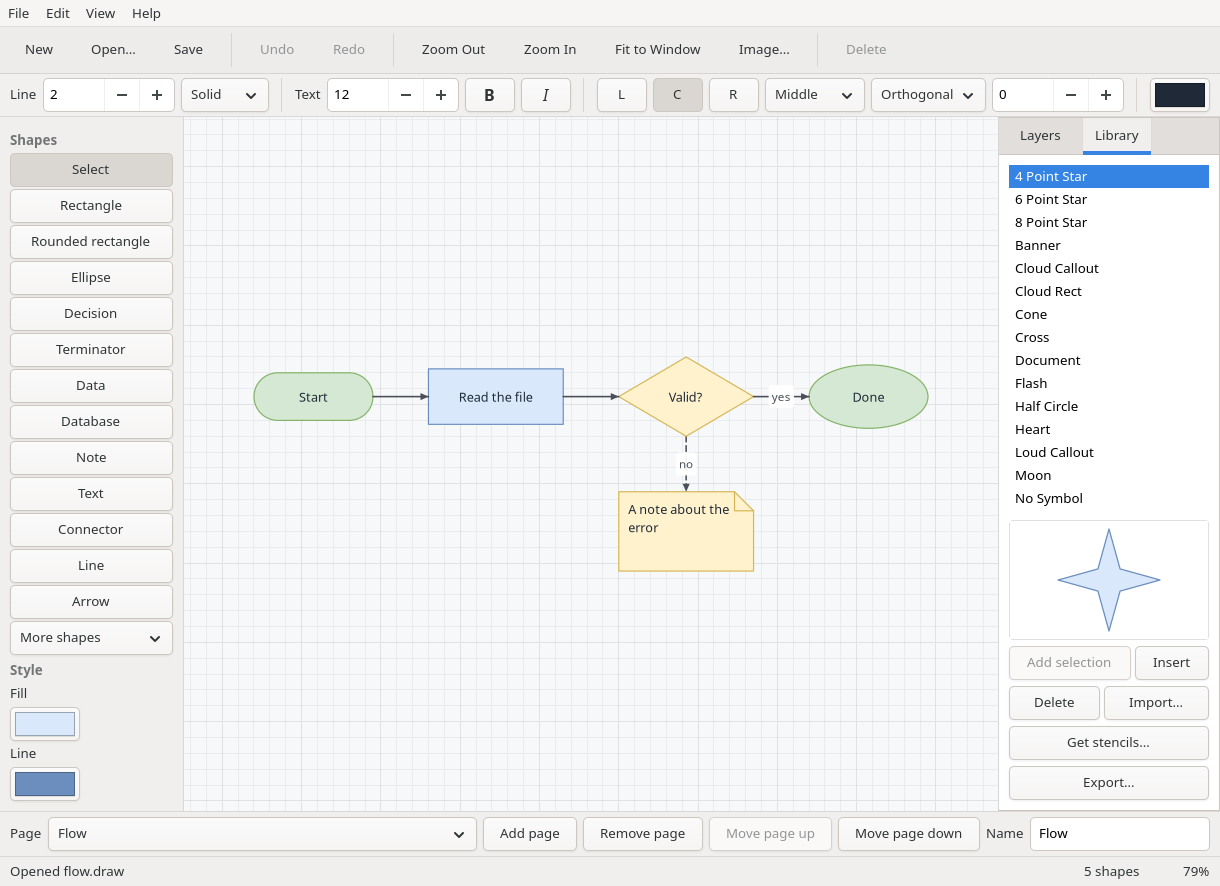
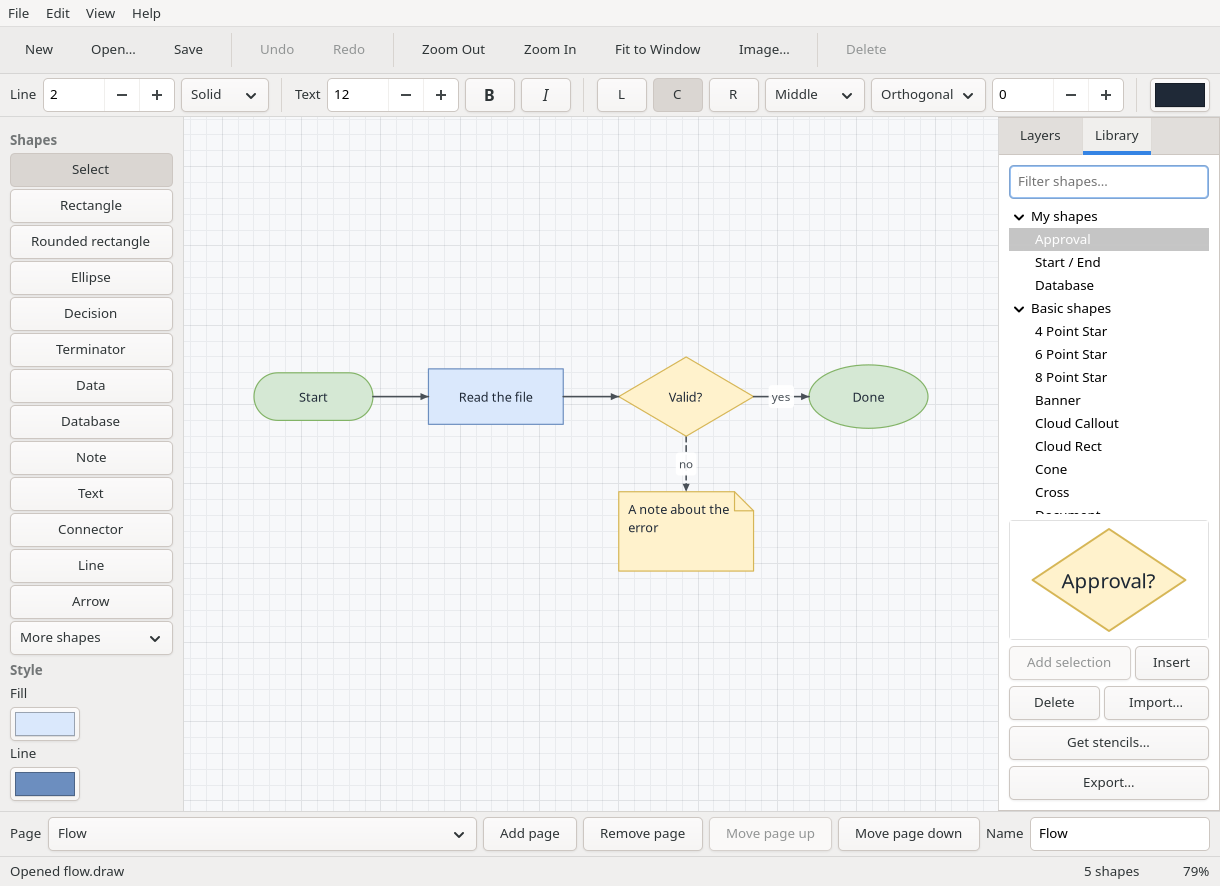
filtrar y agrupar la biblioteca importada
La lista de la pestaña Library ahora es un TreeView agrupado por procedencia: My shapes para Add selection, el nombre del archivo para Import y el nombre del set para Get stencils. El filtro busca en el nombre y el grupo, así que AND encuentra las compuertas descargadas. Los grupos se guardan en el .btlib y se conservan al reimportar. El filtro del catálogo de importación queda como estaba.

Changed region(s): [[0.8098, 0.1828, 0.9967, 0.579], [0.841, 0.579, 0.9656, 0.7314]]

diff --git a/MainForm.js b/MainForm.js
@@ -2338,25 +2338,63 @@ export class MainForm extends Form {
         }
     }
 
+    librarySelection() {
+        if (!this.TrvLibrary) return -1;
+        const key = this.TrvLibrary.Key;
+        if (!key || key.indexOf("item:") !== 0) return -1;
+        const index = parseInt(key.slice(5), 10);
+        return index >= 0 && index < this.library.items.length ? index : -1;
+    }
+
+    libraryGroup(item) {
+        return item.group || Locale.Text("Unfiled");
+    }
+
     refreshLibrary(select) {
-        if (!this.LstLibrary) return;
+        if (!this.TrvLibrary) return;
+        const previous = typeof select === "number" ? select
+                                                     : this.librarySelection();
+        const query = this.TxtLibraryFilter
+            ? (this.TxtLibraryFilter.Text || "").trim().toLowerCase() : "";
+        const groups = new Map();
+        let first = -1;
+
         this.syncingLibrary = true;
-        this.LstLibrary.Clear();
-        for (let i = 0; i < this.library.items.length; i++)
-            this.LstLibrary.Add(this.library.items[i].name, String(i));
-        if (typeof select === "number" && select >= 0 &&
-            select < this.library.items.length)
-            this.LstLibrary.Index = select;
+        this.TrvLibrary.Clear();
+        for (let i = 0; i < this.library.items.length; i++) {
+            const item = this.library.items[i];
+            const group = this.libraryGroup(item);
+            if (query &&
+                (item.name + " " + group).toLowerCase().indexOf(query) < 0)
+                continue;
+            const groupKey = "group:" + group;
+            if (!groups.has(group)) {
+                this.TrvLibrary.Add(groupKey, group);
+                groups.set(group, groupKey);
+            }
+            this.TrvLibrary.Add("item:" + i, item.name, groupKey);
+            if (first < 0) first = i;
+        }
+        this.TrvLibrary.ExpandAll();
+
+        const target = previous >= 0 &&
+                       this.TrvLibrary.Exists("item:" + previous)
+            ? previous : first;
+        if (target >= 0) this.TrvLibrary.Key = "item:" + target;
         this.syncingLibrary = false;
         this.refreshLibraryButtons();
         this.refreshLibraryPreview();
     }
 
+    TxtLibraryFilter_Change() {
+        if (!this.syncingLibrary) this.refreshLibrary();
+    }
+
     /* A preview is a page nobody saved: the stamp inserted at the centre of a
      * scratch diagram puts every piece back where the item keeps it. */
     libraryPreviewDiagram() {
-        if (!this.library || !this.LstLibrary) return null;
-        const index = this.LstLibrary.Index;
+        if (!this.library || !this.TrvLibrary) return null;
+        const index = this.librarySelection();
         if (index < 0 || index >= this.library.items.length) return null;
         const item = this.library.items[index];
         const preview = new Diagram();
@@ -2388,21 +2426,20 @@ export class MainForm extends Form {
 
     refreshLibraryButtons() {
         if (!this.BtnLibraryAdd) return;
-        const index = this.LstLibrary.Index;
-        const hasItem = index >= 0 && index < this.library.items.length;
+        const hasItem = this.librarySelection() >= 0;
         this.BtnLibraryAdd.Enabled = this.sel.length > 0;
         this.BtnLibraryInsert.Enabled = hasItem;
         this.BtnLibraryDelete.Enabled = hasItem;
         this.BtnLibraryExport.Enabled = this.library.items.length > 0;
     }
 
-    LstLibrary_Select() {
+    TrvLibrary_Select() {
         if (this.syncingLibrary) return;
         this.refreshLibraryButtons();
         this.refreshLibraryPreview();
     }
 
-    LstLibrary_Activate() { this.insertLibraryItem(); }
+    TrvLibrary_Activate() { this.insertLibraryItem(); }
 
     BtnLibraryAdd_Click() {
         const item = this.library.addSelection(this.selectionData());
@@ -2411,12 +2448,13 @@ export class MainForm extends Form {
             return;
         }
         if (!this.saveLibrary()) return;
+        if (this.TxtLibraryFilter) this.TxtLibraryFilter.Text = "";
         this.refreshLibrary(this.library.items.length - 1);
         this.setStatus(Locale.Text("Added {0} to the library.", item.name));
     }
 
     insertLibraryItem() {
-        const index = this.LstLibrary.Index;
+        const index = this.librarySelection();
         if (index < 0 || index >= this.library.items.length) return;
         if (!this.canEditActiveLayer()) return;
 
@@ -2437,7 +2475,7 @@ export class MainForm extends Form {
     BtnLibraryInsert_Click() { this.insertLibraryItem(); }
 
     BtnLibraryDelete_Click() {
-        const index = this.LstLibrary.Index;
+        const index = this.librarySelection();
         if (index < 0 || index >= this.library.items.length) return;
         this.library.items.splice(index, 1);
         this.saveLibrary();
@@ -2446,8 +2484,9 @@ export class MainForm extends Form {
 
     BtnLibraryDownload_Click() {
         StencilsForm.show((items, entry) => {
-            this.library.addItems(items);
+            this.library.addItems(items, entry.name);
             if (!this.saveLibrary()) return;
+            if (this.TxtLibraryFilter) this.TxtLibraryFilter.Text = "";
             this.refreshLibrary(this.library.items.length - items.length);
             this.setStatus(Locale.Text("Downloaded {0} shapes from {1}.",
                                        items.length, entry.name));
@@ -2480,8 +2519,9 @@ export class MainForm extends Form {
             this.setStatus(Locale.Text("The library is empty."));
             return;
         }
-        this.library.addItems(items);
+        this.library.addItems(items, File.Name(path));
         if (!this.saveLibrary()) return;
+        if (this.TxtLibraryFilter) this.TxtLibraryFilter.Text = "";
         this.refreshLibrary(this.library.items.length - items.length);
         this.setStatus(Locale.Text("Imported {0} items.", items.length));
     }

diff --git a/tests/selfcheck/TestForm.js b/tests/selfcheck/TestForm.js
@@ -1190,7 +1190,7 @@ class TestForm extends Form {
         fm.BtnLibraryAdd_Click();
         this.eq("image: a library stamp keeps it",
                 fm.library.items[0].shapes[0].image, data);
-        fm.LstLibrary.Index = 0;
+        fm.TrvLibrary.Key = "item:0";
         fm.BtnLibraryInsert_Click();
         this.eq("image: inserting the stamp brings it back",
                 fm.doc.shapes[1].image, data);
@@ -1382,13 +1382,29 @@ class TestForm extends Form {
         fm.select([a.id, b.id]);
         fm.BtnLibraryAdd_Click();
         this.eq("library: the selection was added", fm.library.items.length, 1);
-        this.eq("library: the list shows it", fm.LstLibrary.Count, 1);
+        this.check("library: the list shows it",
+                   fm.TrvLibrary.Exists("item:0"));
         this.eq("library: the item took the first label",
                 fm.library.items[0].name, "Start");
         this.eq("library: it has the connector", fm.library.items[0].edges.length, 1);
+        this.eq("library: it is filed under My shapes",
+                fm.library.items[0].group, Locale.Text("My shapes"));
+        this.check("library: the group is a parent",
+                   fm.TrvLibrary.Exists("group:" + Locale.Text("My shapes")));
+
+        fm.TxtLibraryFilter.Text = "Start";
+        fm.TxtLibraryFilter_Change();
+        this.check("library: the filter finds by name",
+                   fm.TrvLibrary.Exists("item:0"));
+        fm.TxtLibraryFilter.Text = "zzzz";
+        fm.TxtLibraryFilter_Change();
+        this.check("library: the filter hides the rest",
+                   !fm.TrvLibrary.Exists("item:0"));
+        fm.TxtLibraryFilter.Text = "";
+        fm.TxtLibraryFilter_Change();
 
         fm.select([]);
-        fm.LstLibrary.Index = 0;
+        fm.TrvLibrary.Key = "item:0";
         fm.refreshLibraryButtons();
         this.eq("library: the preview builds the stamp",
                 fm.libraryPreviewDiagram().shapes.length, 2);
@@ -1409,6 +1425,8 @@ class TestForm extends Form {
         const imported = importLibrary(file);
         this.eq("library: a .btlib round-trips", imported.length, 1);
         this.eq("library: its shapes came", imported[0].shapes.length, 2);
+        this.eq("library: and its group",
+                imported[0].group, Locale.Text("My shapes"));
         File.Delete(file);
 
         const mx = File.Join(Application.Directory, "test.mxlibrary");
@@ -1451,7 +1469,7 @@ class TestForm extends Form {
         lineLib.insert(lineCopy, 0, 20, 20, lineCopy.layers[0].id);
         this.eq("library: inserting it makes a line", lineCopy.edges.length, 1);
 
-        fm.LstLibrary.Index = 0;
+        fm.TrvLibrary.Key = "item:0";
         fm.BtnLibraryDelete_Click();
         this.eq("library: delete empties it", fm.library.items.length, 0);
         this.eq("library: and the preview goes quiet",
@@ -1512,7 +1530,8 @@ class TestForm extends Form {
             BtnLayerVisible: ["Click"], BtnLayerLocked: ["Click"],
             BtnLayerAssign: ["Click"],
             TxtLayerName: ["Activate", "LostFocus"],
-            LstLibrary: ["Select", "Activate"],
+            TrvLibrary: ["Select", "Activate"],
+            TxtLibraryFilter: ["Change"],
             LibraryPreview: ["Draw"],
             ActImage: ["Execute"],
             BtnLibraryDownload: ["Click"],

diff --git a/Library.js b/Library.js
@@ -96,6 +96,7 @@ export class ShapeLibrary {
             library.items.push({
                 name: typeof raw.name === "string" && raw.name.trim()
                     ? raw.name : Locale.Text("Item"),
+                group: typeof raw.group === "string" ? raw.group : "",
                 w: Math.max(1, Number(raw.w) || 1),
                 h: Math.max(1, Number(raw.h) || 1),
                 shapes: raw.shapes.map(shapeCopy),
@@ -110,7 +111,8 @@ export class ShapeLibrary {
             format: "bintana-draw-library/1",
             version: 1,
             items: this.items.map((item) => ({
-                name: item.name, w: item.w, h: item.h,
+                name: item.name, group: item.group || "",
+                w: item.w, h: item.h,
                 shapes: item.shapes.map(shapeCopy),
                 edges: item.edges.map(edgeCopy),
             })),
@@ -124,6 +126,7 @@ export class ShapeLibrary {
         const item = normalize(shapes, edges);
         const saved = {
             name: shapes.length ? nameFor(shapes) : Locale.Text("Line"),
+            group: Locale.Text("My shapes"),
             w: item.w, h: item.h,
             shapes: item.shapes, edges: item.edges,
         };
@@ -150,7 +153,7 @@ export class ShapeLibrary {
             const copiedEdges = edges.map(edgeCopy);
             const item = normalize(shapes, copiedEdges);
             items.push({
-                name: nameFor(shapes), w: item.w, h: item.h,
+                name: nameFor(shapes), group: "", w: item.w, h: item.h,
                 shapes: item.shapes, edges: item.edges,
             });
         };
@@ -195,17 +198,20 @@ export class ShapeLibrary {
             const copied = edgeCopy(edge);
             const item = normalize([], [copied]);
             items.push({
-                name: Locale.Text("Line"), w: item.w, h: item.h,
+                name: Locale.Text("Line"), group: "", w: item.w, h: item.h,
                 shapes: [], edges: item.edges,
             });
         }
         return items;
     }
 
-    addItems(items) {
-        for (const item of items)
-            if (item && (item.shapes.length || item.edges.length))
-                this.items.push(item);
+    addItems(items, group) {
+        for (const item of items) {
+            if (!item || (!item.shapes.length && !item.edges.length)) continue;
+            if (!item.group && group) item.group = group;
+            else if (typeof item.group !== "string") item.group = "";
+            this.items.push(item);
+        }
     }
 
     insert(diagram, index, x, y, layer) {

diff --git a/README.md b/README.md
@@ -41,14 +41,16 @@ The window is started with a blank canvas and the shape palette on the left.
   travels alone.
 - **Shape library** — the **Library** tab saves the current selection as a
   reusable stamp, shows it in a preview, inserts it at the centre of the view,
-  and deletes it. The library lives in the application's config directory and
-  can be exported as `.btlib`. **Import** accepts a `.btlib`, a `.draw`, an
-  uncompressed `.drawio`/XML diagram, a draw.io stencil set (`<shapes>`), or a
-  draw.io `.mxlibrary` with uncompressed `xml` entries. Stencil geometry is
-  kept as vector paths, so the imported shapes resize without a picture.
-  **Get stencils…** downloads a curated set into the library, grouped by
-  category and filtered by name or shape word, with its license shown before
-  the request.
+  and deletes it. The list groups stamps by where they came from — **My
+  shapes**, an imported file or a downloaded set — and filters by name. The
+  library lives in the application's config directory and can be exported as
+  `.btlib`. **Import** accepts a `.btlib`, a `.draw`, an uncompressed
+  `.drawio`/XML diagram, a draw.io stencil set (`<shapes>`), or a draw.io
+  `.mxlibrary` with uncompressed `xml` entries. Stencil geometry is kept as
+  vector paths, so the imported shapes resize without a picture. **Get
+  stencils…** downloads a curated set into the library, grouped by category
+  and filtered by name or shape word, with its license shown before the
+  request.
 
 - **Connectors** — the connector tool, dragged from one shape to another,
   produces an orthogonal route that follows both shapes when they move or

diff --git a/AGENTS.md b/AGENTS.md
@@ -68,12 +68,15 @@ BINTANA=/path/to/build/bintana tests/run.sh
   `Locale.Text` as a single string; the extractor cannot see a concatenation.
 - **The self-check references the real sources with `../../`**, not copies:
   `bintana check` scans the whole tree and duplicate exports are a warning.
-- **A library item is normalized and carries its own ids.** `ShapeLibrary`
-  subtracts the top-left corner, keeps shape ids for its own edges, and
-  `insert` remaps those ids and every group id into the target page. The
-  library is UI state under `Application.ConfigDirectory`, not part of the
-  document and not undoable. The preview is a scratch `Diagram` built the same
-  way, so it renders with `drawExport` instead of a second painter.
+- **A library item is normalized and carries its own ids and group.**
+  `ShapeLibrary` subtracts the top-left corner, keeps shape ids for its own
+  edges, and `insert` remaps those ids and every group id into the target
+  page. `group` is what the Library panel's `TrvLibrary` tree groups by: "My
+  shapes" for Add selection, the file or set name for imports. The filter
+  reads `name` and `group`. The library is UI state under
+  `Application.ConfigDirectory`, not part of the document and not undoable.
+  The preview is a scratch `Diagram` built the same way, so it renders with
+  `drawExport` instead of a second painter.
 - **The right panel is a Notebook now.** `LayersPage` and `LibraryPage` are
   sibling pages; controls keep their names, but a new right-side panel must be
   added as a page rather than as another sibling of `RightTabs`.
